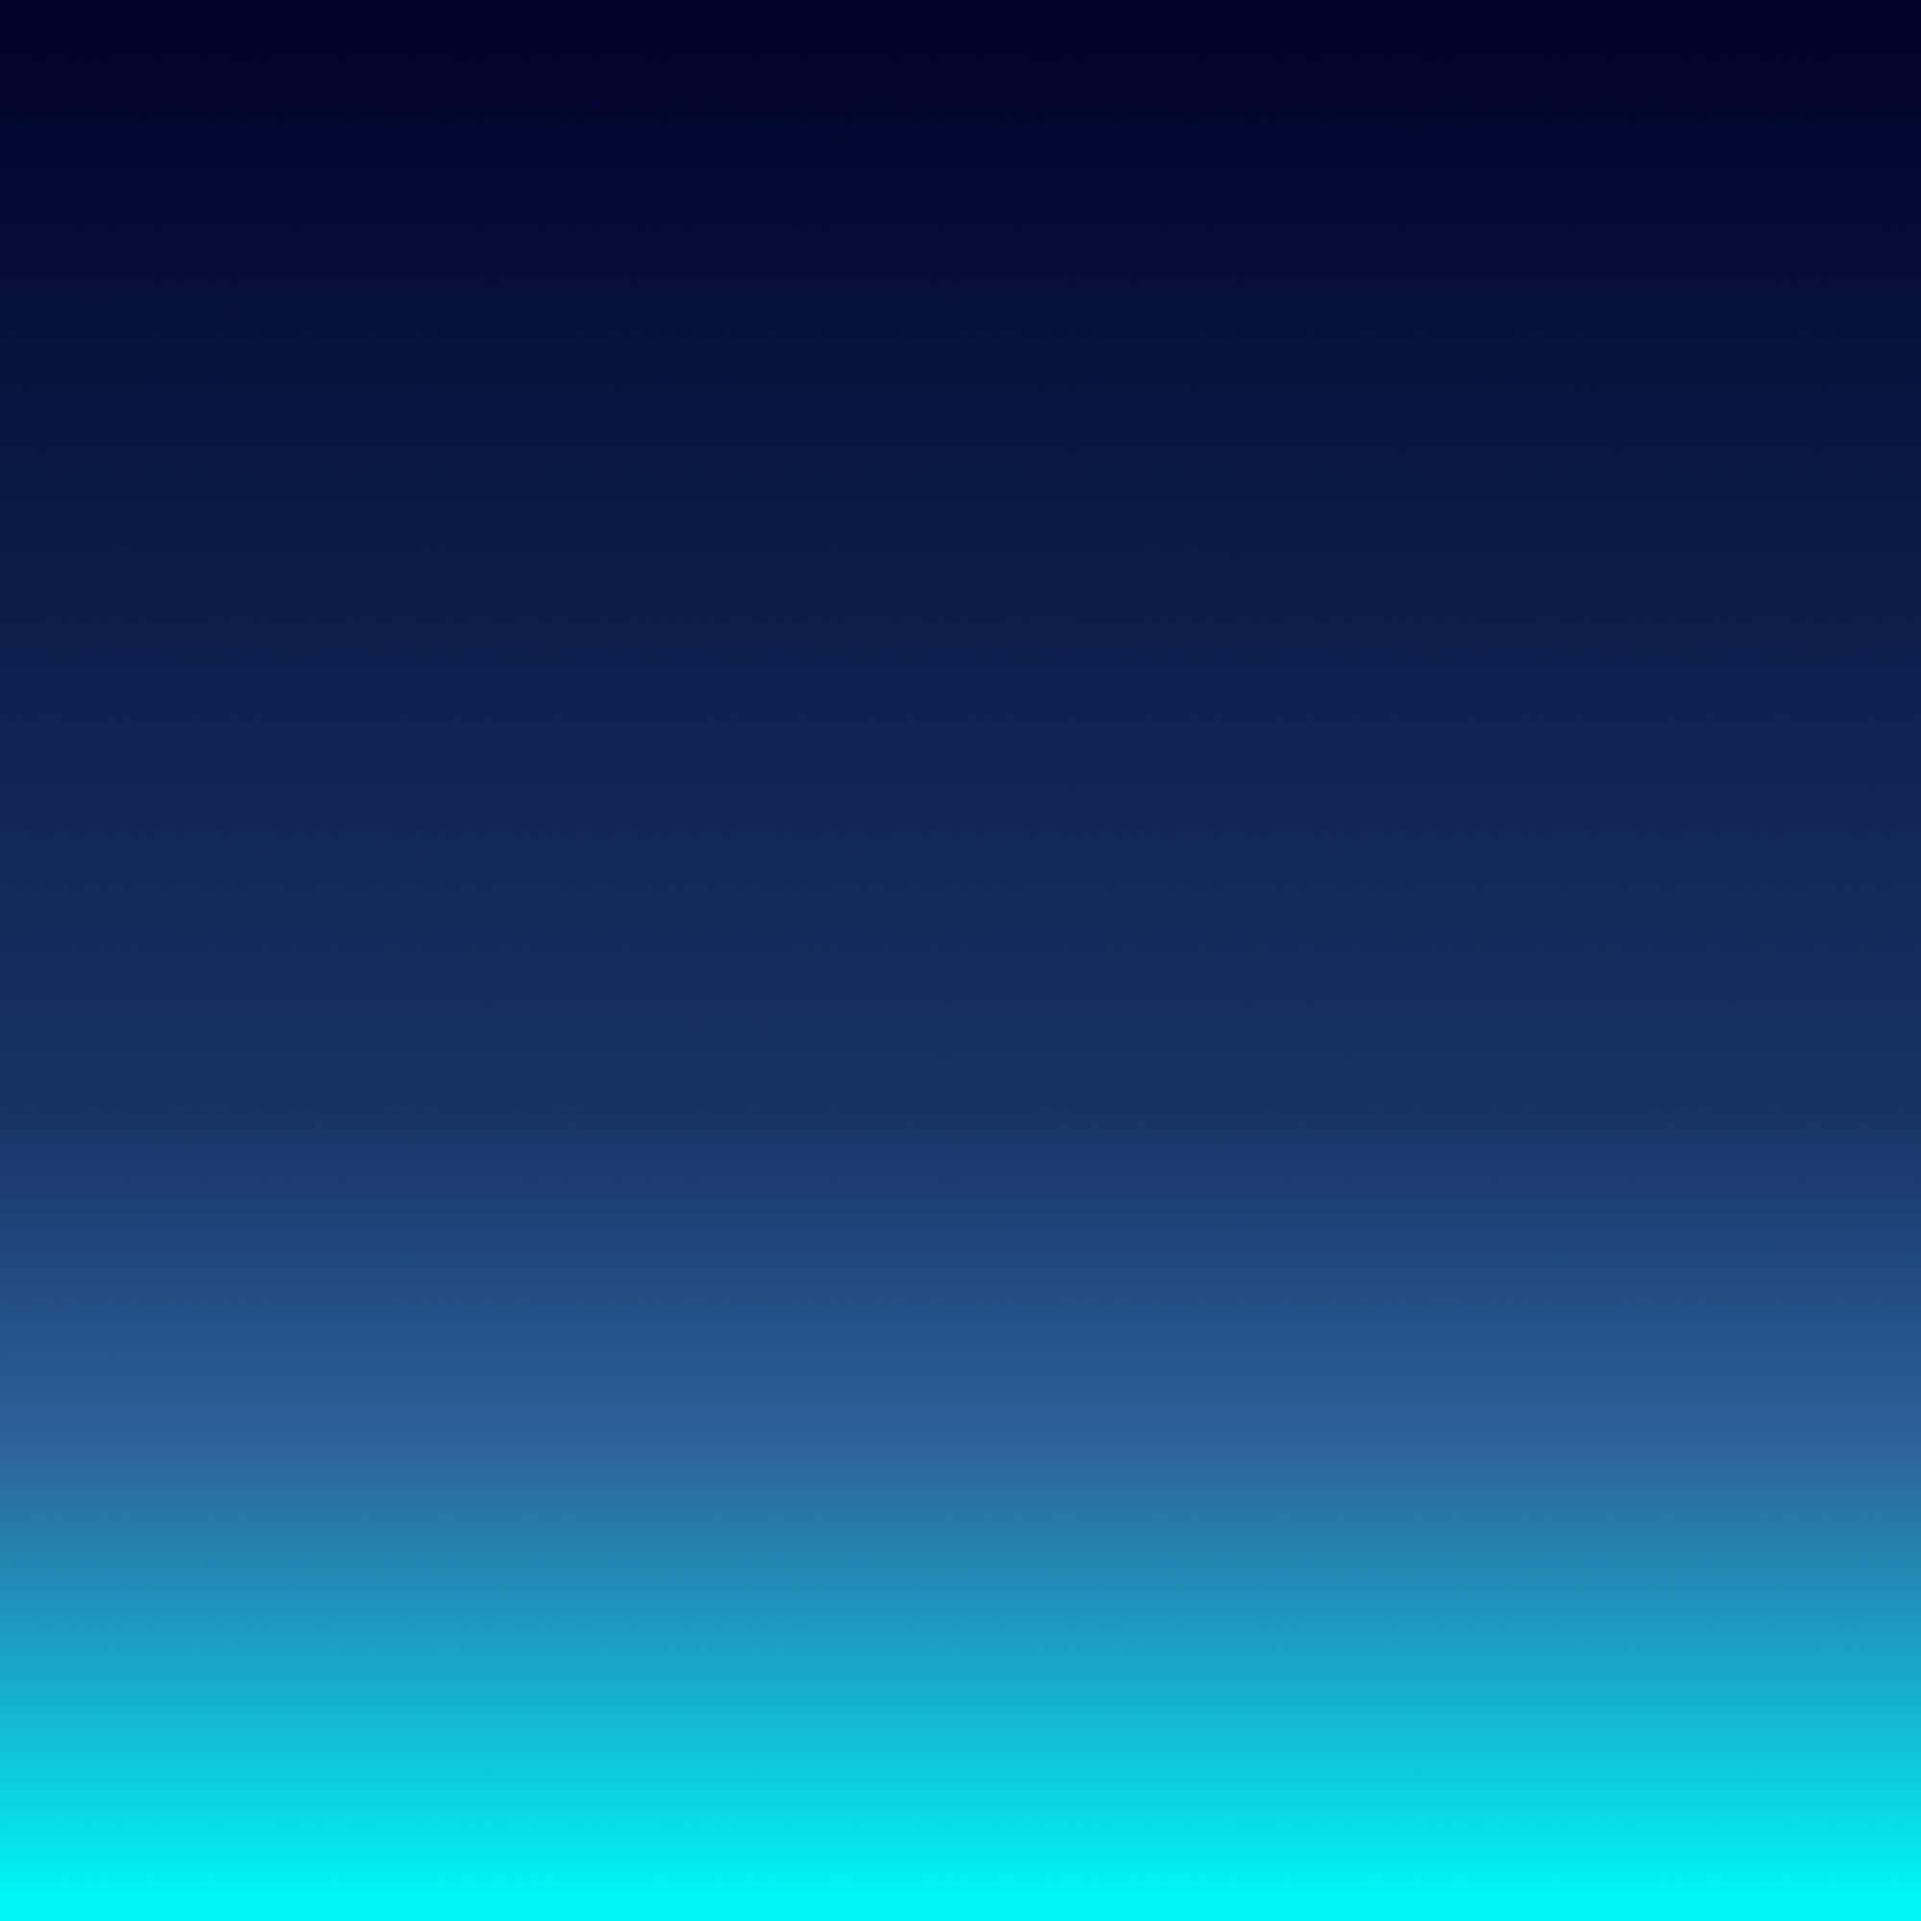
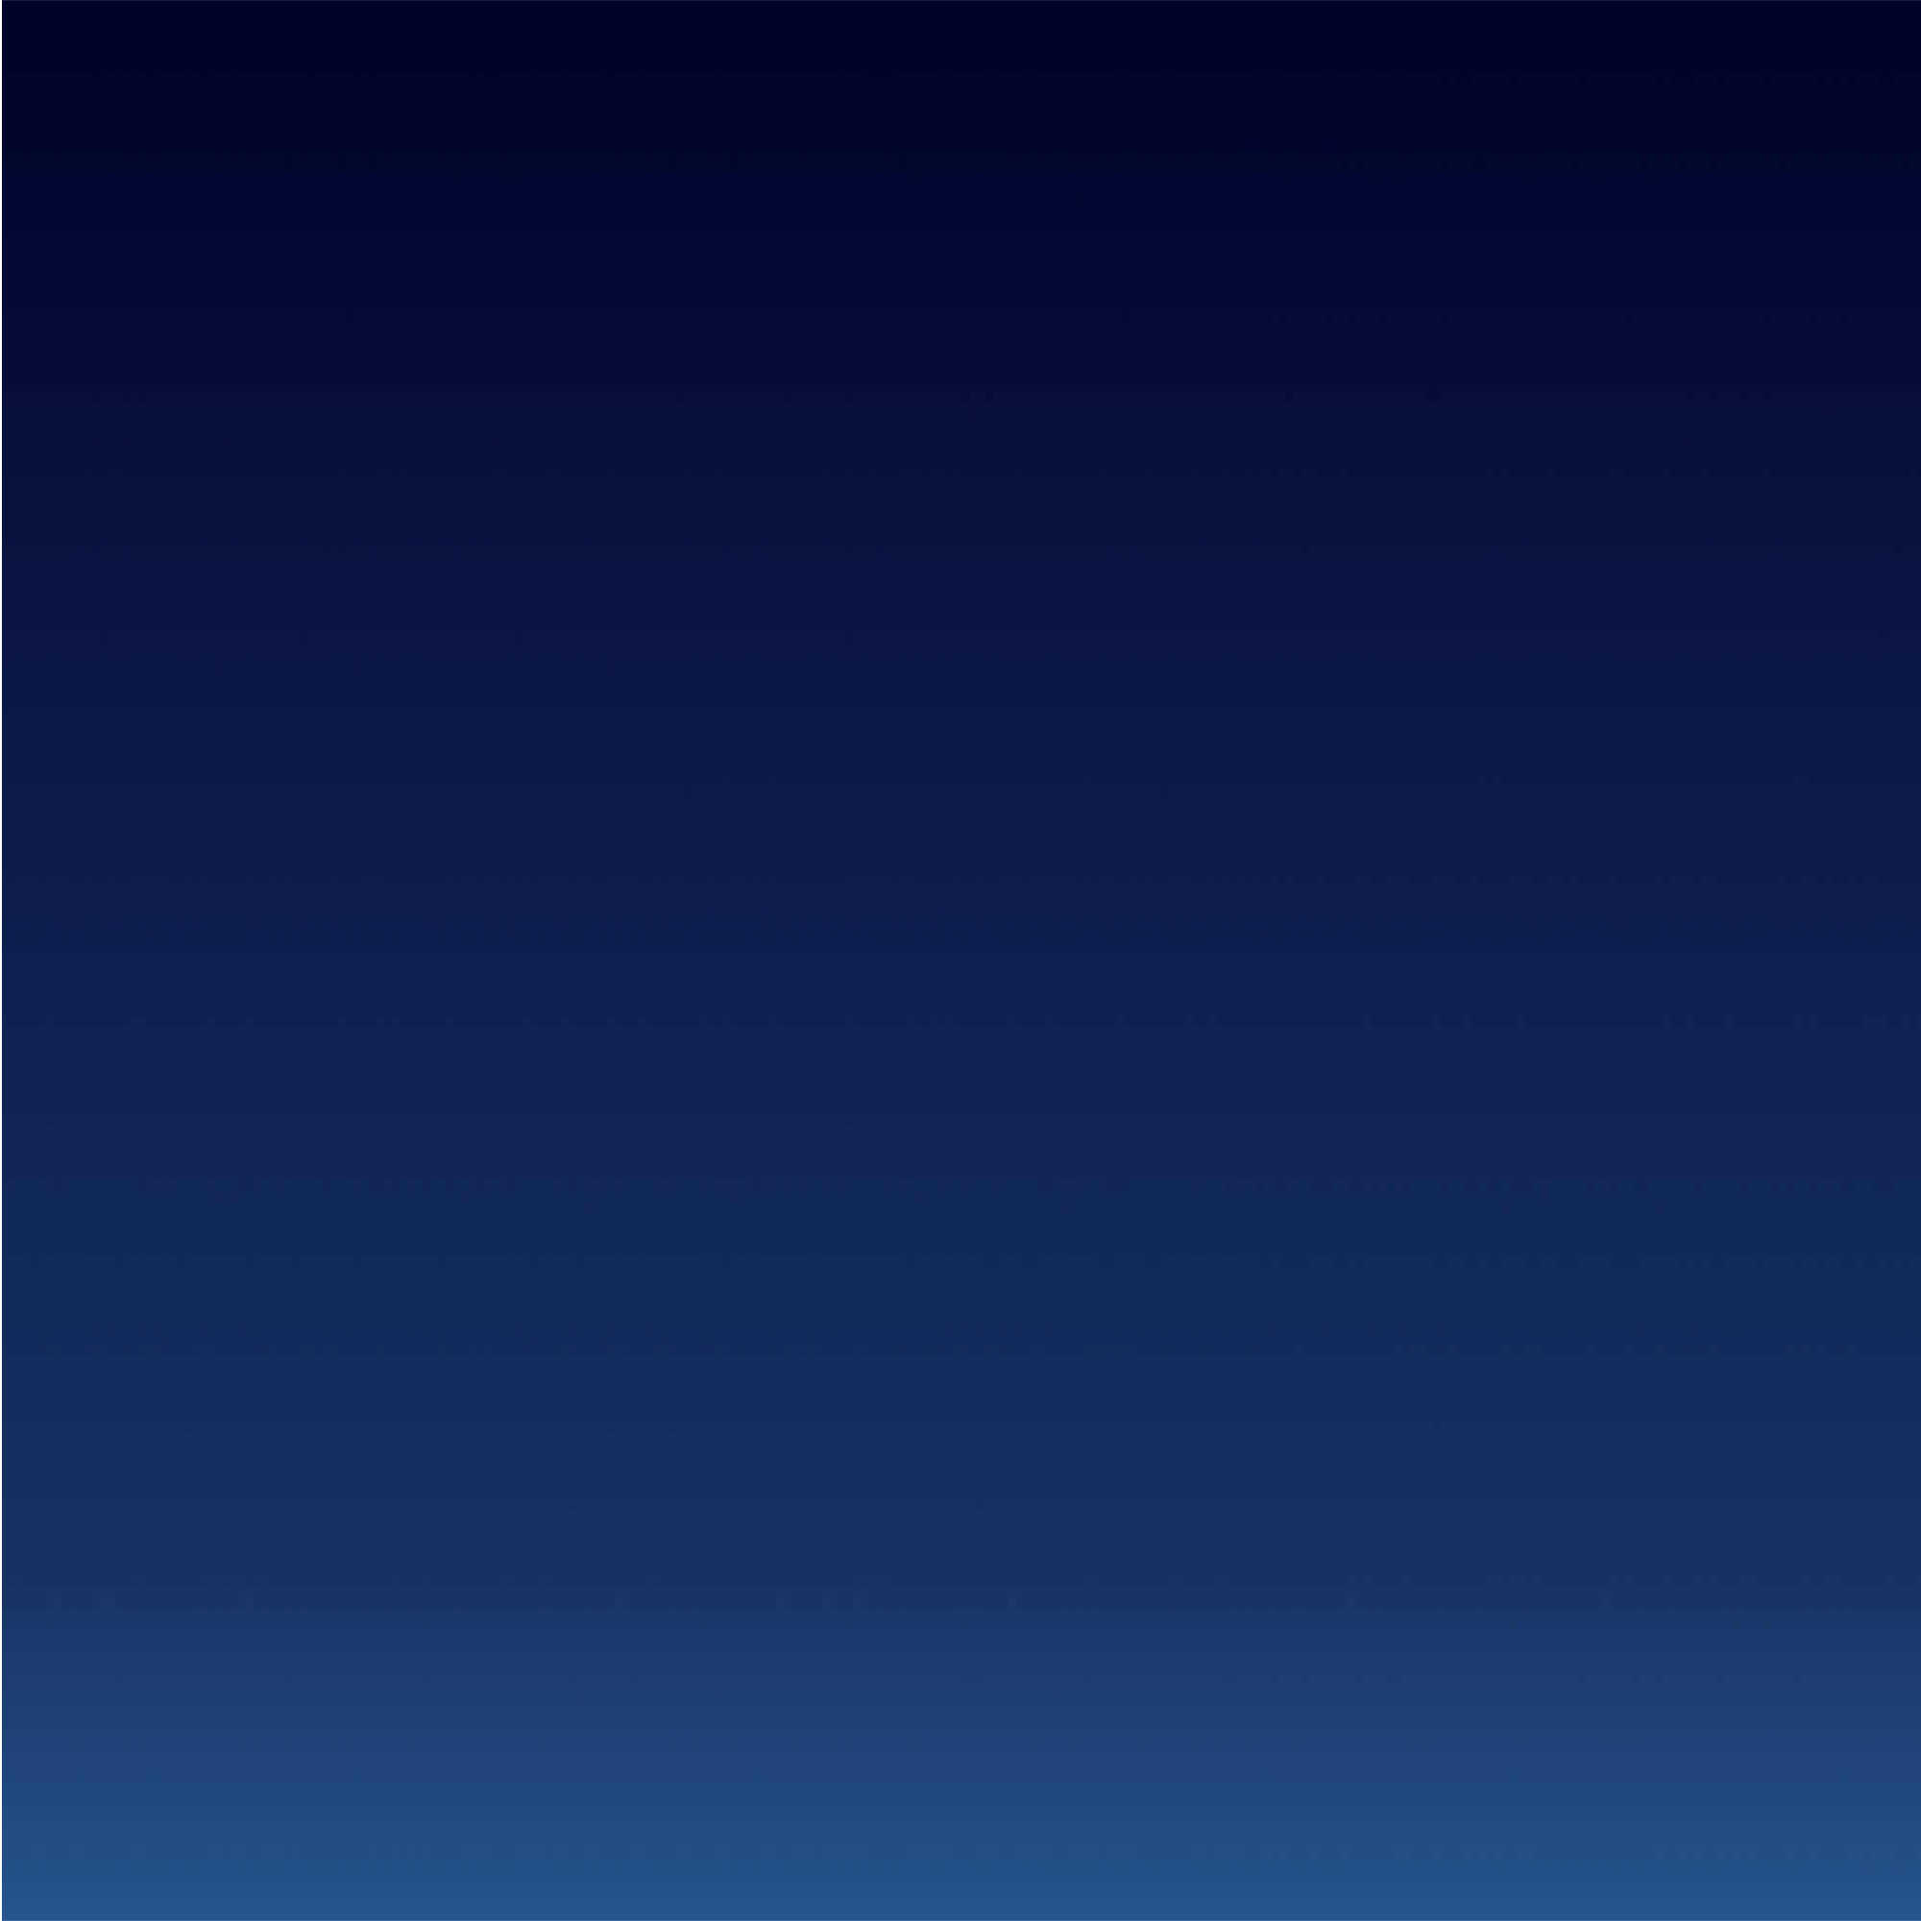
[WIP] Zmiany tła

diff --git a/index.html b/index.html
@@ -69,9 +69,13 @@
           </div>
          </div>        
     </header>
+
+        <div class="breakSpace">
+         <br><br><br>
+        </div>
       
         <div class="container-articles" id="info"> 
-          <br><br>
+          <br>
           <h2 class="text-center my-4">Artykuły</h2>
           <div class="text-center articles__articleBox mx-1 my-2 py-4">
             <h2 class="my-2">Prognoza pogody dla Londynu - bez zmian !!!</h2>
@@ -132,9 +136,48 @@
           </div>    
           <br>
           <div class="text-center">
-            <p class="button_style" id="but">Więcej</p>
+            <p class="button_style" id="but">Więcej artykułów</p>
           </div>  
       </div>
+
+
+
+
+
+      <div class="breakSpace">
+        <br><br><br>
+       </div>
+
+       <div class="container-articles" id="info"> 
+
+          <br>
+          <h2 class="text-center my-4">Temat z innej beczki</h2>
+
+          <div class="text-center articles__articleBox mx-1 my-2 py-4">
+              <h2 class="my-2">Prognoza pogody dla Londynu - bez zmian !!!</h2>
+              <img class="articles__image" src="elementy graficzne/artykuły/emery.jpg" alt="logo">
+             
+             
+              <!-- <hr class="divider light my-4"> -->
+              <p class="articles__paragraph mb-4"><b class="text-white">To co początkowo wydawało się powiewem świeżości, nowej taktycznej myśli z Półwyspu Iberyjskiego zaczyna przybierać formę nie taką jaką oczekiwali kibice Arsenalu. </b><a class="art1" id="art1"> Czytaj dalej</a></p>
+              <p class="articles__paragraph mb-4 element_hide" id="art_11"><b class="text-white">Lorem ipsum dolor sit amet consectetur adipisicing elit. Labore, numquam doloribus repellat error architecto tenetur. Aliquam, a animi aliquid, enim veniam libero eum tempore unde in soluta doloribus consequuntur necessitatibus!
+                Lorem ipsum dolor sit amet consectetur adipisicing elit. Labore, numquam doloribus repellat error architecto tenetur. Aliquam, a animi aliquid, enim veniam libero eum tempore unde in soluta doloribus consequuntur necessitatibus!
+                Lorem ipsum dolor sit amet consectetur adipisicing elit. Labore, numquam doloribus repellat error architecto tenetur. Aliquam, a animi aliquid, enim veniam libero eum tempore unde in soluta doloribus consequuntur necessitatibus!
+                Lorem ipsum dolor sit amet consectetur adipisicing elit. Labore, numquam doloribus repellat error architecto tenetur. Aliquam, a animi aliquid, enim veniam libero eum tempore unde in soluta doloribus consequuntur necessitatibus!
+                Lorem ipsum dolor sit amet consectetur adipisicing elit. Labore, numquam doloribus repellat error architecto tenetur. Aliquam, a animi aliquid, enim veniam libero eum tempore unde in soluta doloribus consequuntur necessitatibus!
+                Lorem ipsum dolor sit amet consectetur adipisicing elit. Labore, numquam doloribus repellat error architecto tenetur. Aliquam, a animi aliquid, enim veniam libero eum tempore unde in soluta doloribus consequuntur necessitatibus!
+                Lorem ipsum dolor sit amet consectetur adipisicing elit. Labore, numquam doloribus repellat error architecto tenetur. Aliquam, a animi aliquid, enim veniam libero eum tempore unde in soluta doloribus consequuntur necessitatibus!
+  
+              </b></p>
+            </div>
+
+       </div>
+
+
+       <div class="breakSpace">
+          <br><br><br>
+         </div>
+
 
     <section class="page-section" id="contact">
       <div class="container">

diff --git a/css/main_page_style.css b/css/main_page_style.css
@@ -11,7 +11,10 @@ body {
     
     font-family: 'Righteous', cursive;
     color: #d7fbfa;
-     background-image: url("../elementy graficzne/tlo/tlo3test.jpg");
+     /* background-image: url("../elementy graficzne/tlo/tlo3test.jpg"); */
+     background-image: url("../elementy graficzne/tlo/trawa.jpg");
+
+
      background-position: center;
      background-repeat: no-repeat;
      background-attachment: scroll;
@@ -47,11 +50,33 @@ body {
     flex-direction: row;
     background-color: #022140;
     border: 5px solid rgb(163, 163, 54);
+ 
+
+
 }
+
+.breakSpace {
+
+    width: 100%;
+    height: 2%;
+    /* display: flex; */
+    background-color: black;
+    /* background-color: #021629; */
+    /* background-color: white;  */
+
+
+}
+
+
 .articles__articleBox {
-  
-    
-    background-color: #022140;
+   
+   /* background-image: url("../elementy graficzne/tlo/artykul-tlo.png"); */
+    background-image: url("../elementy graficzne/tlo/TłoArtykulow3.png");
+    background-position: center;
+    background-repeat: no-repeat;
+    /* background-attachment: scroll; */
+    background-size: cover;
+   /* background-color: #022140;*/
 
     border: 5px solid rgb(163, 163, 54);
 }
